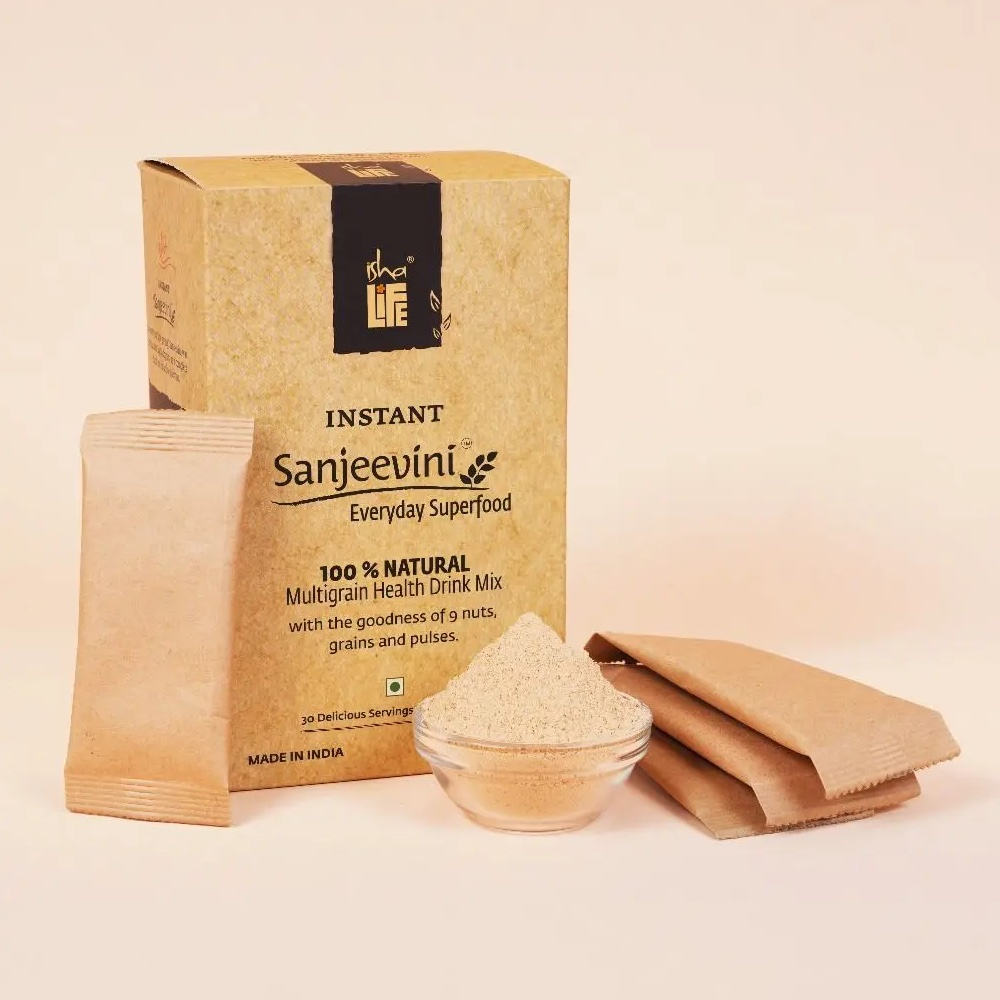
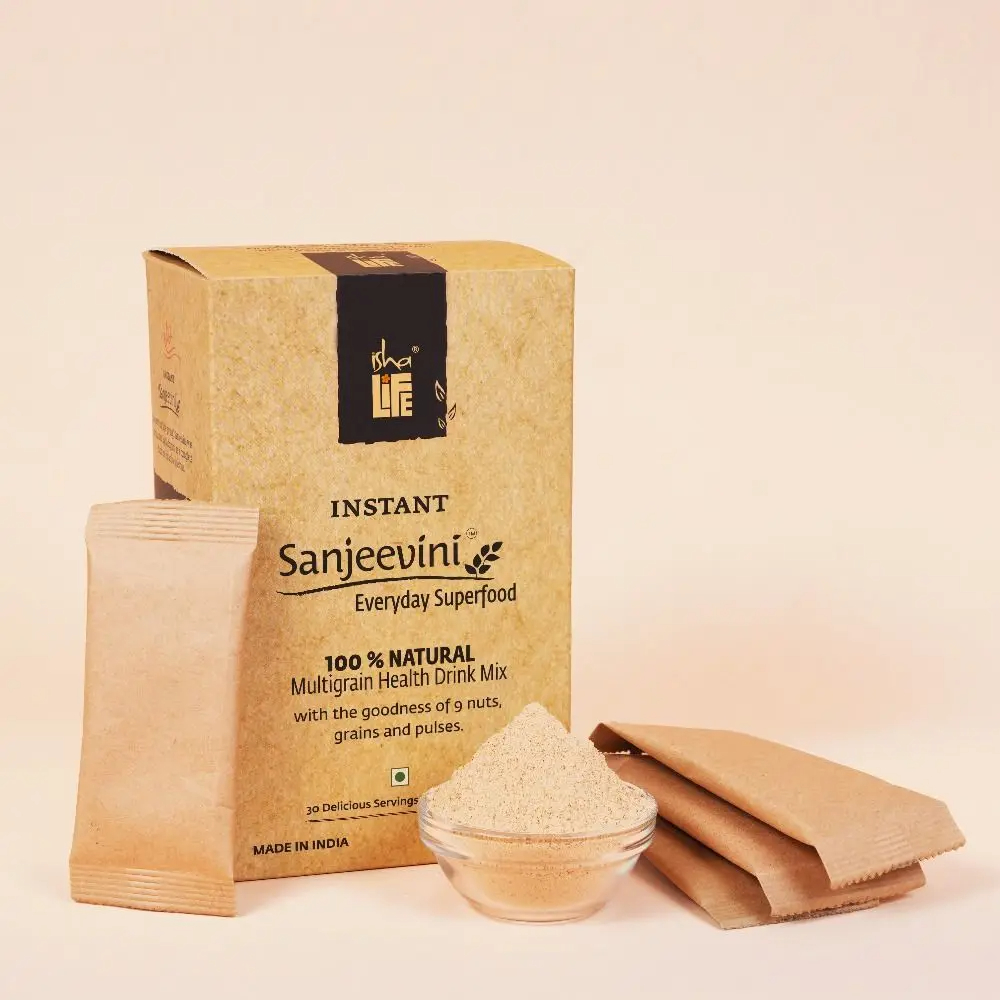
resize ảnh

Changed region(s): [[0.062, 0.124, 0.961, 0.93], [0.496, 0.341, 0.527, 0.372], [0.124, 0.62, 0.155, 0.651]]

diff --git a/exampleSite/content/english/products/sanjeevini-600g.md b/exampleSite/content/english/products/sanjeevini-600g.md
@@ -3,10 +3,9 @@ title: "Ngũ cốc Sanjeevini ăn liền, dùng một lần (20g/gói x 30 gói)
 date: 2019-10-17T11:22:16+06:00
 images: 
   - "images/products/sanjeevini-600g-1.jpg"
-  - "images/products/sanjeevini-600g-2.webp"
-  - "images/products/sanjeevini-600g-3.webp"
-  - "images/products/sanjeevini-600g-3.webp"
-  - "images/products/sanjeevini-600g-5.webp"
+  - "images/products/sanjeevini-600g-2.jpg"
+  - "images/products/sanjeevini-600g-3.jpg"
+  - "images/products/sanjeevini-600g-4.jpg"
 
 # meta description
 description : "https://ishalife.sadhguru.org/in/instant-sanjeevini-600gms-n"

diff --git a/exampleSite/content/english/products/dhyanalinga-yantra-25mm.md b/exampleSite/content/english/products/dhyanalinga-yantra-25mm.md
@@ -6,10 +6,6 @@ images:
   - "images/products/dhyanalinga-yantra-25mm-2.webp"
   - "images/products/dhyanalinga-yantra-25mm-3.webp"
   - "images/products/dhyanalinga-yantra-25mm-4.webp"
-  - "images/products/dhyanalinga-yantra-25mm-5.webp"
-  - "images/products/dhyanalinga-yantra-25mm-6.webp"
-  - "images/products/dhyanalinga-yantra-25mm-7.webp"
-  - "images/products/dhyanalinga-yantra-25mm-8.webp"
 # meta description
 description : "https://ishalife.sadhguru.org/in/dhyanalinga-yantra-with-wooden-frame-25-mm-5514"
 

diff --git a/exampleSite/content/english/products/bot-goi-dau.md b/exampleSite/content/english/products/bot-goi-dau.md
@@ -6,9 +6,6 @@ images:
   - "images/products/bot-goi-dau-2.webp"
   - "images/products/bot-goi-dau-3.webp"
   - "images/products/bot-goi-dau-4.webp"
-  - "images/products/bot-goi-dau-5.webp"
-  - "images/products/bot-goi-dau-6.webp"
-  - "images/products/bot-goi-dau-7.webp"
 # meta description
 description : "https://ishalife.sadhguru.org/in/kesh-jyoti-herbal-hair-wash-powder-500-gm-isha-s-unique-siddha-formulation-a-herbal-powder-with-shikakai-and-4-other-natural-and-traditional-herbs-for-healthy-scalp-and-hair"
 
